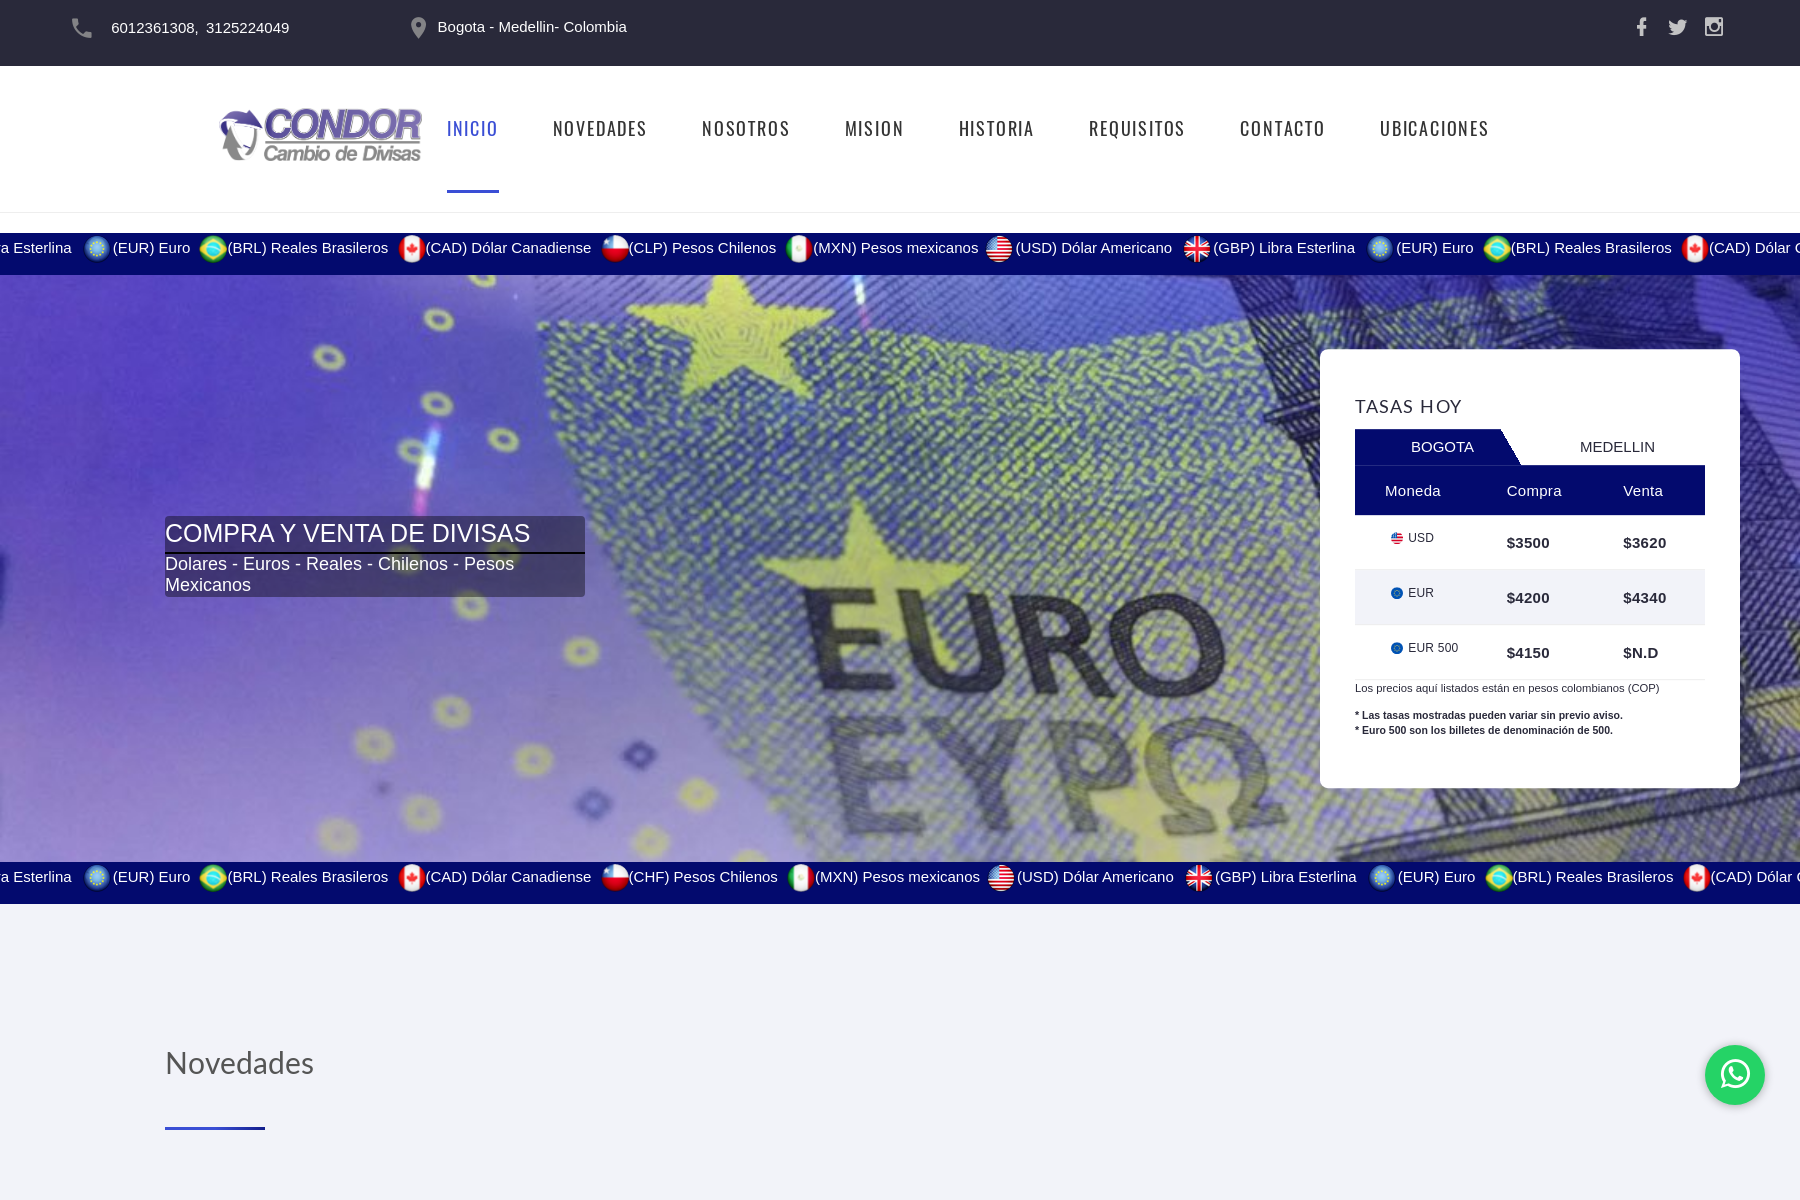
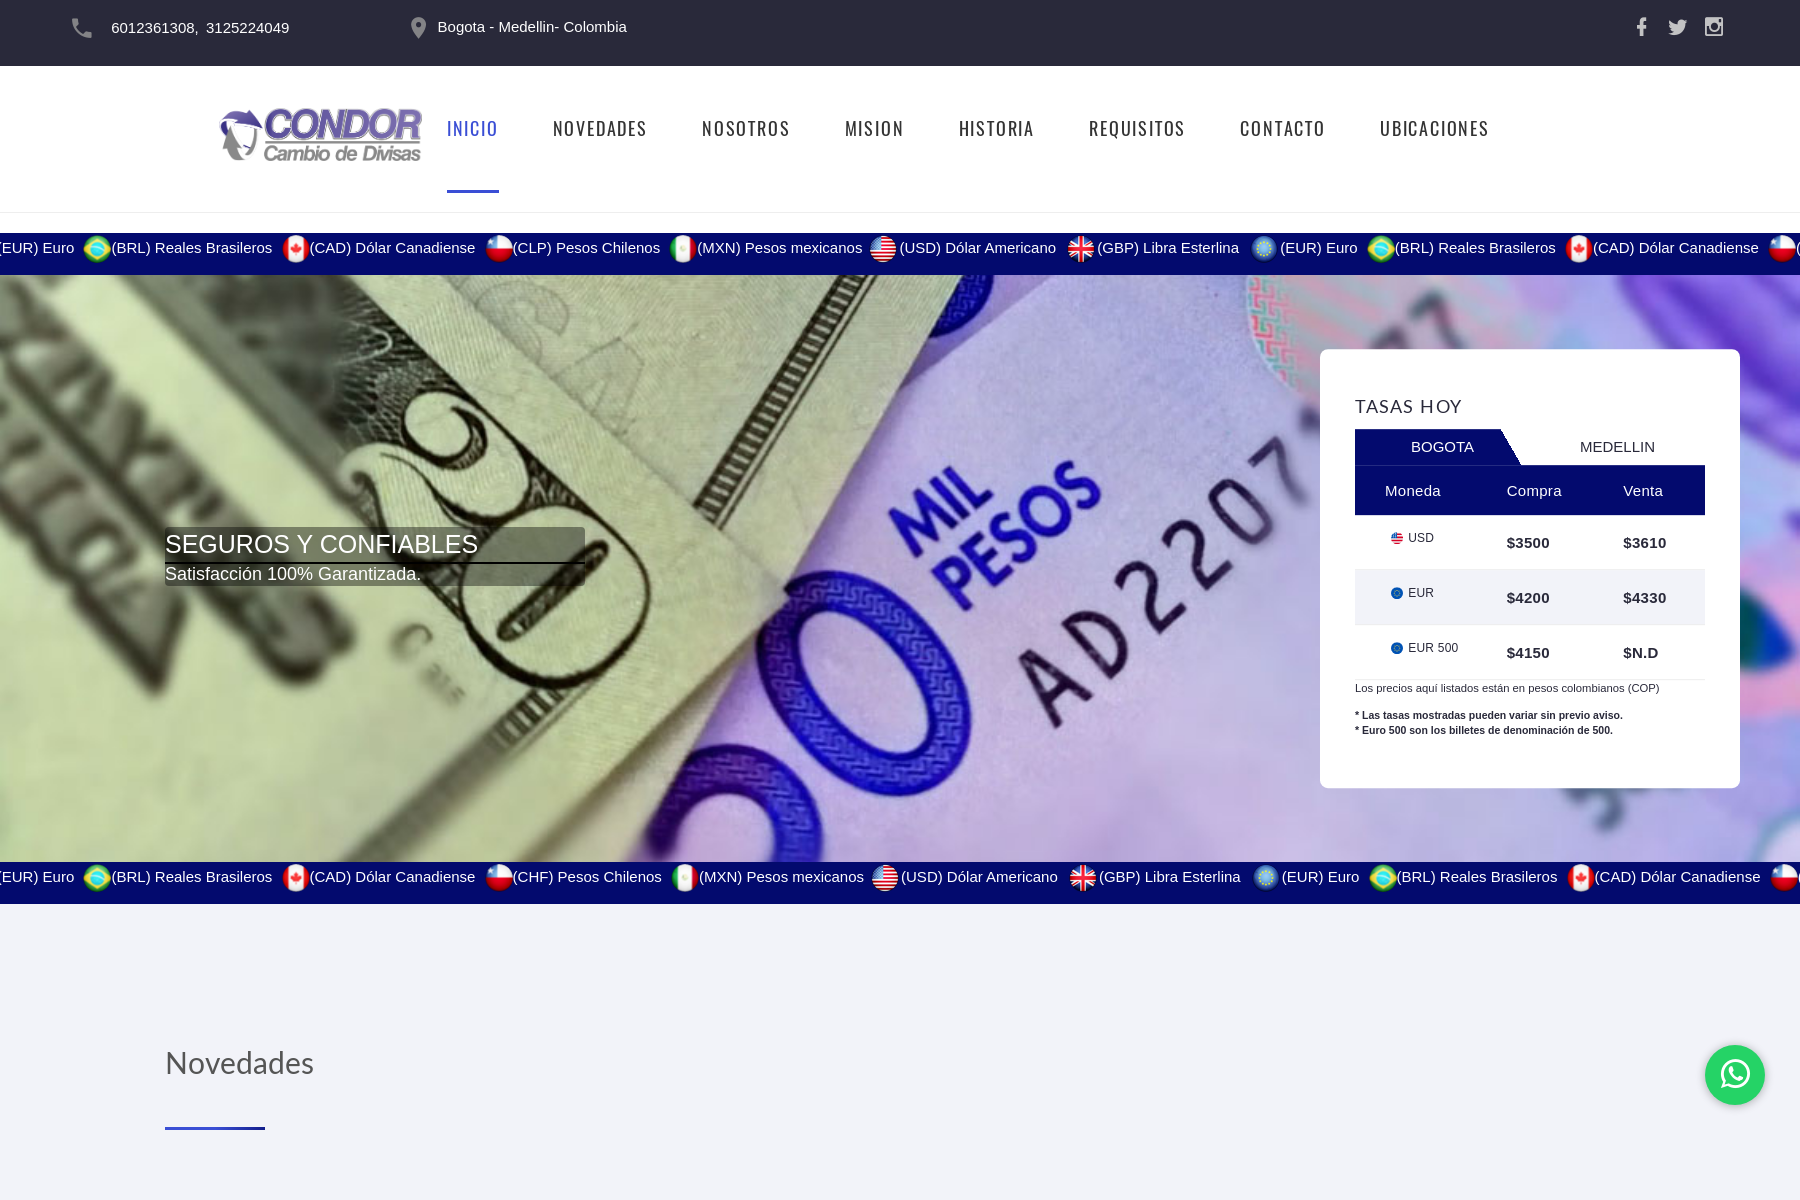
add data

diff --git a/logs/kapital.png.html b/logs/kapital.png.html
@@ -4,7 +4,7 @@
 <a class="skip-link screen-reader-text" href="#content">Ir al contenido</a>
 
 		<header data-elementor-type="header" data-elementor-id="13" class="elementor elementor-13 elementor-location-header" data-elementor-settings="{&quot;ha_cmc_init_switcher&quot;:&quot;no&quot;}" data-elementor-post-type="elementor_library">
-			<div class="elementor-element elementor-element-795e478 e-con-full e-flex e-con e-parent e-lazyloaded elementor-sticky elementor-sticky--active elementor-section--handles-inside" data-id="795e478" data-element_type="container" data-e-type="container" data-settings="{&quot;jet_parallax_layout_list&quot;:[],&quot;sticky&quot;:&quot;top&quot;,&quot;sticky_effects_offset&quot;:30,&quot;sticky_on&quot;:[&quot;desktop&quot;,&quot;laptop&quot;,&quot;tablet&quot;,&quot;mobile&quot;],&quot;sticky_offset&quot;:0,&quot;sticky_anchor_link_offset&quot;:0}" style="position: fixed; width: 1800px; margin-top: 0px; margin-bottom: 0px; top: 0px;">
+			<div class="elementor-element elementor-element-795e478 e-con-full e-flex e-con e-parent elementor-sticky elementor-sticky--active elementor-section--handles-inside e-lazyloaded" data-id="795e478" data-element_type="container" data-e-type="container" data-settings="{&quot;jet_parallax_layout_list&quot;:[],&quot;sticky&quot;:&quot;top&quot;,&quot;sticky_effects_offset&quot;:30,&quot;sticky_on&quot;:[&quot;desktop&quot;,&quot;laptop&quot;,&quot;tablet&quot;,&quot;mobile&quot;],&quot;sticky_offset&quot;:0,&quot;sticky_anchor_link_offset&quot;:0}" style="position: fixed; width: 1800px; margin-top: 0px; margin-bottom: 0px; top: 0px;">
 		<div class="elementor-element elementor-element-191893d e-flex e-con-boxed e-con e-child" data-id="191893d" data-element_type="container" data-e-type="container" data-settings="{&quot;jet_parallax_layout_list&quot;:[]}">
 					<div class="e-con-inner">
 				<div class="elementor-element elementor-element-b06799e elementor-widget__width-initial elementor-widget-mobile__width-initial elementor-widget elementor-widget-image" data-id="b06799e" data-element_type="widget" data-e-type="widget" data-widget_type="image.default">
@@ -25,7 +25,7 @@
 				<div class="elementor-element elementor-element-fc0e479 elementor-nav-menu--stretch elementor-hidden-tablet elementor-hidden-mobile elementor-nav-menu--dropdown-tablet elementor-nav-menu__text-align-aside elementor-nav-menu--toggle elementor-nav-menu--burger elementor-widget elementor-widget-nav-menu" data-id="fc0e479" data-element_type="widget" data-e-type="widget" data-settings="{&quot;full_width&quot;:&quot;stretch&quot;,&quot;layout&quot;:&quot;horizontal&quot;,&quot;submenu_icon&quot;:{&quot;value&quot;:&quot;<svg aria-hidden=\&quot;true\&quot; class=\&quot;e-font-icon-svg e-fas-caret-down\&quot; viewBox=\&quot;0 0 320 512\&quot; xmlns=\&quot;http:\/\/www.w3.org\/2000\/svg\&quot;><path d=\&quot;M31.3 192h257.3c17.8 0 26.7 21.5 14.1 34.1L174.1 354.8c-7.8 7.8-20.5 7.8-28.3 0L17.2 226.1C4.6 213.5 13.5 192 31.3 192z\&quot;><\/path><\/svg>&quot;,&quot;library&quot;:&quot;fa-solid&quot;},&quot;toggle&quot;:&quot;burger&quot;}" data-widget_type="nav-menu.default">
 				<div class="elementor-widget-container">
 								<nav aria-label="Menú" class="elementor-nav-menu--main elementor-nav-menu__container elementor-nav-menu--layout-horizontal e--pointer-underline e--animation-fade">
-				<ul id="menu-1-fc0e479" class="elementor-nav-menu" data-smartmenus-id="17828305465884326"><li class="menu-item menu-item-type-post_type menu-item-object-page menu-item-home current-menu-item page_item page-item-533 current_page_item menu-item-786"><a href="https://cambioskapital.com/" aria-current="page" class="elementor-item elementor-item-active">Inicio</a></li>
+				<ul id="menu-1-fc0e479" class="elementor-nav-menu" data-smartmenus-id="17828396820177375"><li class="menu-item menu-item-type-post_type menu-item-object-page menu-item-home current-menu-item page_item page-item-533 current_page_item menu-item-786"><a href="https://cambioskapital.com/" aria-current="page" class="elementor-item elementor-item-active">Inicio</a></li>
 <li class="menu-item menu-item-type-post_type menu-item-object-page menu-item-787"><a href="https://cambioskapital.com/requisitos-y-normatividad/" class="elementor-item">Requisitos</a></li>
 <li class="menu-item menu-item-type-post_type menu-item-object-page menu-item-47"><a href="https://cambioskapital.com/sobre-nosotros/" class="elementor-item">Sobre nosotros</a></li>
 <li class="menu-item menu-item-type-post_type menu-item-object-page menu-item-46"><a href="https://cambioskapital.com/blog/" class="elementor-item">Blog</a></li>
@@ -33,7 +33,7 @@
 					<div class="elementor-menu-toggle" role="button" tabindex="0" aria-label="Alternar menú" aria-expanded="false" style="">
 			<svg aria-hidden="true" role="presentation" class="elementor-menu-toggle__icon--open e-font-icon-svg e-eicon-menu-bar" viewBox="0 0 1000 1000" xmlns="http://www.w3.org/2000/svg"><path d="M104 333H896C929 333 958 304 958 271S929 208 896 208H104C71 208 42 237 42 271S71 333 104 333ZM104 583H896C929 583 958 554 958 521S929 458 896 458H104C71 458 42 487 42 521S71 583 104 583ZM104 833H896C929 833 958 804 958 771S929 708 896 708H104C71 708 42 737 42 771S71 833 104 833Z"></path></svg><svg aria-hidden="true" role="presentation" class="elementor-menu-toggle__icon--close e-font-icon-svg e-eicon-close" viewBox="0 0 1000 1000" xmlns="http://www.w3.org/2000/svg"><path d="M742 167L500 408 258 167C246 154 233 150 217 150 196 150 179 158 167 167 154 179 150 196 150 212 150 229 154 242 171 254L408 500 167 742C138 771 138 800 167 829 196 858 225 858 254 829L496 587 738 829C750 842 767 846 783 846 800 846 817 842 829 829 842 817 846 804 846 783 846 767 842 750 829 737L588 500 833 258C863 229 863 200 833 171 804 137 775 137 742 167Z"></path></svg>		</div>
 					<nav class="elementor-nav-menu--dropdown elementor-nav-menu__container" aria-hidden="true" style="width: 1800px; left: 0px; top: 44px;">
-				<ul id="menu-2-fc0e479" class="elementor-nav-menu" data-smartmenus-id="17828305465897727"><li class="menu-item menu-item-type-post_type menu-item-object-page menu-item-home current-menu-item page_item page-item-533 current_page_item menu-item-786"><a href="https://cambioskapital.com/" aria-current="page" class="elementor-item elementor-item-active" tabindex="-1">Inicio</a></li>
+				<ul id="menu-2-fc0e479" class="elementor-nav-menu" data-smartmenus-id="17828396820185312"><li class="menu-item menu-item-type-post_type menu-item-object-page menu-item-home current-menu-item page_item page-item-533 current_page_item menu-item-786"><a href="https://cambioskapital.com/" aria-current="page" class="elementor-item elementor-item-active" tabindex="-1">Inicio</a></li>
 <li class="menu-item menu-item-type-post_type menu-item-object-page menu-item-787"><a href="https://cambioskapital.com/requisitos-y-normatividad/" class="elementor-item" tabindex="-1">Requisitos</a></li>
 <li class="menu-item menu-item-type-post_type menu-item-object-page menu-item-47"><a href="https://cambioskapital.com/sobre-nosotros/" class="elementor-item" tabindex="-1">Sobre nosotros</a></li>
 <li class="menu-item menu-item-type-post_type menu-item-object-page menu-item-46"><a href="https://cambioskapital.com/blog/" class="elementor-item" tabindex="-1">Blog</a></li>
@@ -59,7 +59,7 @@
 				</div>
 					</div>
 				</div>
-				</div><div class="elementor-element elementor-element-795e478 e-con-full e-flex e-con e-parent e-lazyloaded elementor-sticky elementor-sticky__spacer" data-id="795e478" data-element_type="container" data-e-type="container" data-settings="{&quot;jet_parallax_layout_list&quot;:[],&quot;sticky&quot;:&quot;top&quot;,&quot;sticky_effects_offset&quot;:30,&quot;sticky_on&quot;:[&quot;desktop&quot;,&quot;laptop&quot;,&quot;tablet&quot;,&quot;mobile&quot;],&quot;sticky_offset&quot;:0,&quot;sticky_anchor_link_offset&quot;:0}" style="visibility: hidden; transition: none 0s ease 0s; animation: 0s ease 0s 1 normal none running none;">
+				</div><div class="elementor-element elementor-element-795e478 e-con-full e-flex e-con e-parent elementor-sticky elementor-sticky__spacer" data-id="795e478" data-element_type="container" data-e-type="container" data-settings="{&quot;jet_parallax_layout_list&quot;:[],&quot;sticky&quot;:&quot;top&quot;,&quot;sticky_effects_offset&quot;:30,&quot;sticky_on&quot;:[&quot;desktop&quot;,&quot;laptop&quot;,&quot;tablet&quot;,&quot;mobile&quot;],&quot;sticky_offset&quot;:0,&quot;sticky_anchor_link_offset&quot;:0}" style="visibility: hidden; transition: none 0s ease 0s; animation: 0s ease 0s 1 normal none running none;">
 		<div class="elementor-element elementor-element-191893d e-flex e-con-boxed e-con e-child" data-id="191893d" data-element_type="container" data-e-type="container" data-settings="{&quot;jet_parallax_layout_list&quot;:[]}">
 					<div class="e-con-inner">
 				<div class="elementor-element elementor-element-b06799e elementor-widget__width-initial elementor-widget-mobile__width-initial elementor-widget elementor-widget-image" data-id="b06799e" data-element_type="widget" data-e-type="widget" data-widget_type="image.default">
@@ -2255,7 +2255,7 @@ día a día en nosotros.</h2>				</div>
 								<div class="elementor-field-type-text">
 					<input size="1" type="text" name="form_fields[field_c1b0b0d]" id="form-field-field_c1b0b0d" class="elementor-field elementor-size-sm " style="display:none !important;">				</div>
 								<div class="elementor-field-type-recaptcha_v3 elementor-field-group elementor-column elementor-field-group-field_1362cad elementor-col-100 recaptcha_v3-bottomright">
-					<div class="elementor-field" id="form-field-field_1362cad"><div class="elementor-g-recaptcha" data-sitekey="6LdWtBwqAAAAAOphueYVlKWT5KFmbitKzEbNypcT" data-type="v3" data-action="Form" data-badge="bottomright" data-size="invisible"><div class="grecaptcha-badge" data-style="bottomright" style="width: 256px; height: 60px; display: block; transition: right 0.3s ease 0s; position: fixed; bottom: 14px; right: -186px; box-shadow: gray 0px 0px 5px; border-radius: 2px; overflow: hidden;"><div class="grecaptcha-logo"><iframe title="reCAPTCHA" width="256" height="60" role="presentation" name="a-8jrkppiwxrkj" frameborder="0" scrolling="no" sandbox="allow-forms allow-popups allow-same-origin allow-scripts allow-top-navigation allow-modals allow-popups-to-escape-sandbox" src="https://www.google.com/recaptcha/api2/anchor?ar=1&amp;k=6LdWtBwqAAAAAOphueYVlKWT5KFmbitKzEbNypcT&amp;co=aHR0cHM6Ly9jYW1iaW9za2FwaXRhbC5jb206NDQz&amp;hl=en&amp;type=v3&amp;v=TnA7HacJFoBWt9hnlunBlYfK&amp;size=invisible&amp;badge=bottomright&amp;sa=Form&amp;anchor-ms=20000&amp;execute-ms=30000&amp;cb=dh8h5x31nt4w" data-gtm-yt-inspected-11="true"></iframe></div><div class="grecaptcha-error"></div><textarea id="g-recaptcha-response" name="g-recaptcha-response" class="g-recaptcha-response" style="width: 250px; height: 40px; border: 1px solid rgb(193, 193, 193); margin: 10px 25px; padding: 0px; resize: none; display: none;"></textarea></div><iframe data-gtm-yt-inspected-11="true" style="display: none;"></iframe></div></div>				</div>
+					<div class="elementor-field" id="form-field-field_1362cad"><div class="elementor-g-recaptcha" data-sitekey="6LdWtBwqAAAAAOphueYVlKWT5KFmbitKzEbNypcT" data-type="v3" data-action="Form" data-badge="bottomright" data-size="invisible"><div class="grecaptcha-badge" data-style="bottomright" style="width: 256px; height: 60px; display: block; transition: right 0.3s ease 0s; position: fixed; bottom: 14px; right: -186px; box-shadow: gray 0px 0px 5px; border-radius: 2px; overflow: hidden;"><div class="grecaptcha-logo"><iframe title="reCAPTCHA" width="256" height="60" role="presentation" name="a-1zlmr7kgnh6u" frameborder="0" scrolling="no" sandbox="allow-forms allow-popups allow-same-origin allow-scripts allow-top-navigation allow-modals allow-popups-to-escape-sandbox" src="https://www.google.com/recaptcha/api2/anchor?ar=1&amp;k=6LdWtBwqAAAAAOphueYVlKWT5KFmbitKzEbNypcT&amp;co=aHR0cHM6Ly9jYW1iaW9za2FwaXRhbC5jb206NDQz&amp;hl=en&amp;type=v3&amp;v=TnA7HacJFoBWt9hnlunBlYfK&amp;size=invisible&amp;badge=bottomright&amp;sa=Form&amp;anchor-ms=20000&amp;execute-ms=30000&amp;cb=aaq9r8xt3ff7" data-gtm-yt-inspected-11="true"></iframe></div><div class="grecaptcha-error"></div><textarea id="g-recaptcha-response" name="g-recaptcha-response" class="g-recaptcha-response" style="width: 250px; height: 40px; border: 1px solid rgb(193, 193, 193); margin: 10px 25px; padding: 0px; resize: none; display: none;"></textarea></div><iframe data-gtm-yt-inspected-11="true" style="display: none;"></iframe></div></div>				</div>
 								<div class="elementor-field-group elementor-column elementor-field-type-submit elementor-col-100 e-form__buttons">
 					<button class="elementor-button elementor-size-sm" type="submit">
 						<span class="elementor-button-content-wrapper">